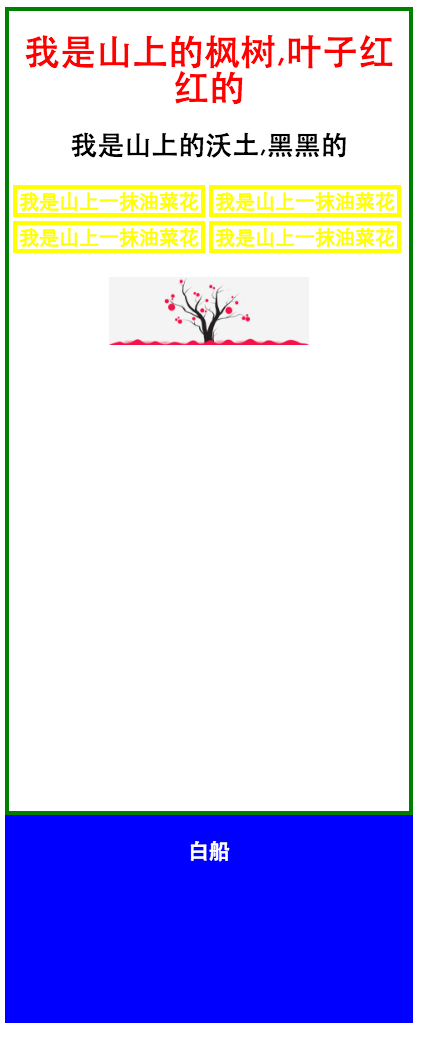
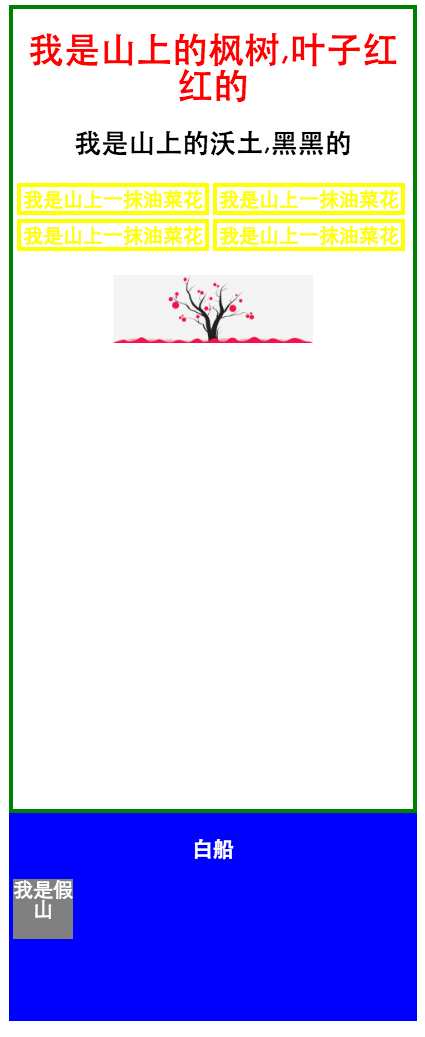
第四章

Changed region(s): [[0.0, 0.0, 1.0, 0.9875]]

diff --git a/lesson_4/lesson_4.html b/lesson_4/lesson_4.html
@@ -10,29 +10,38 @@
                     width: 200px;
                     height: 400px;
                     text-align: center;" >
-            <h1 style="color: red;" >我是山上的枫树,叶子红红的</h1>
-            <h2 style="color: black;" >我是山上的沃土,黑黑的</h2>
+            <h1 style="color: red;" >
+                我是山上的枫树,叶子红红的
+            </h1>
+            <h2 style="color: black;" >
+                我是山上的沃土,黑黑的
+            </h2>
             <table>
                 <tr>
-                    <td style="border: yellow solid 2px;color: yellow;">
+                    <td style="border: yellow solid 2px;
+                    color: yellow;">
                         我是山上一抹油菜花
                     </td>
-                    <td style="border: yellow solid 2px;color: yellow;">
+                    <td style="border: yellow solid 2px;
+                    color: yellow;">
                         我是山上一抹油菜花
                     </td>
                 </tr>
                 <tr>
-                    <td style="border: yellow solid 2px;color: yellow;">
+                    <td style="border: yellow solid 2px;
+                    color: yellow;">
                         我是山上一抹油菜花
                     </td>
-                    <td style="border: yellow solid 2px;color: yellow;">
+                    <td style="border: yellow solid 2px;
+                    color: yellow;">
                         我是山上一抹油菜花
                     </td>
                 </tr>
             </table>
             <br/>
             <!-- 下面也是山上的一棵树 -->
-            <img src="https://www.800zf.cn/plugins/scollIt/images/2.png" width="100px" />
+            <img src="https://www.800zf.cn/plugins/scollIt/images/2.png"
+                 width="100px" />
         </div>
         <!-- 我是山旁边的琥珀,蓝蓝的 -->
         <div  style="border: blue solid 2px;
@@ -41,6 +50,13 @@
                     text-align: center;
                     background: blue;" >
             <h3 style="color: white;" >白船</h3>
+            <!-- 护坡上有一座假山-->
+            <div style="background: gray;
+            width: 30px;
+            height: 30px;
+            color: white;" >
+                我是假山
+            </div>
         </div>
     </body>
 </html>
